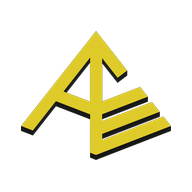
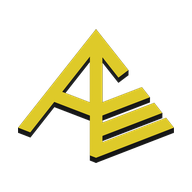
로고 비율 바로잡기

diff --git a/index.html b/index.html
@@ -17,7 +17,7 @@
 <style>
 body{margin:0;background:#F3F5F9;font:15px/1.55 -apple-system,"Apple SD Gothic Neo","Malgun Gothic",sans-serif;color:#1d2433}
 #ld{min-height:100vh;display:flex;flex-direction:column;align-items:center;justify-content:center;gap:14px;color:#66708a}
-#ld .lg img{height:46px;display:block}
+#ld .lg img{width:min(300px,78vw);height:auto;display:block}
 #ld .sp{width:30px;height:30px;border:3px solid #D5DBE6;border-top-color:#1F3864;border-radius:50%;animation:r 0.9s linear infinite}
 @keyframes r{to{transform:rotate(360deg)}}
 #ld button{background:#1F3864;color:#fff;border:0;border-radius:8px;padding:9px 16px;font:inherit}
